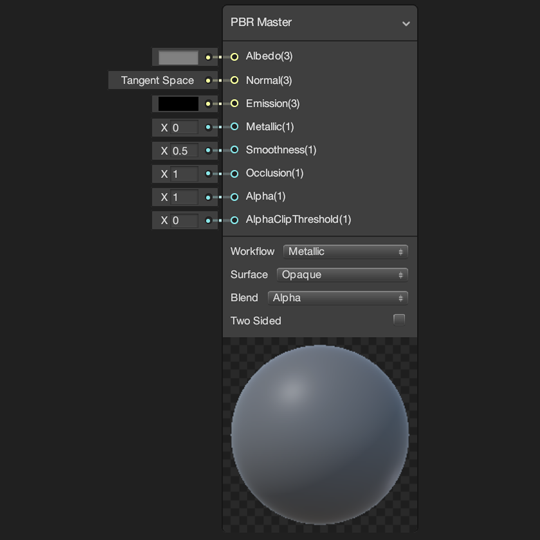
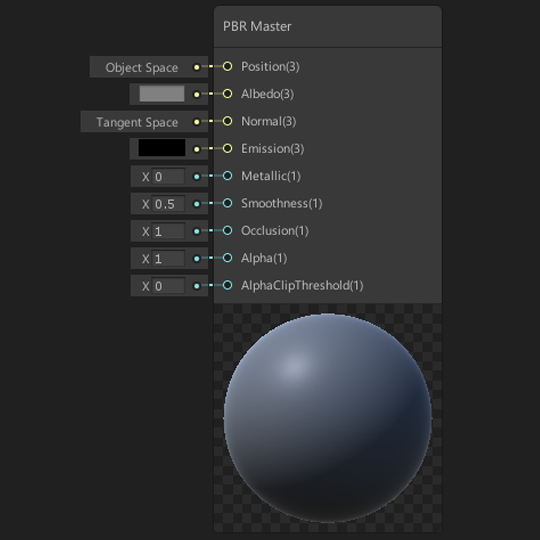
Update node list pages

Changed region(s): [[0.1481, 0.0, 0.8296, 0.9778]]

diff --git a/com.unity.shadergraph/Documentation~/Math-Nodes.md b/com.unity.shadergraph/Documentation~/Math-Nodes.md
@@ -1,21 +1,6 @@
-#Math Nodes
+# Math Nodes
 
-##Basic
-
-| [Add](Add-Node.md) | [Divide](Divide-Node.md) |
-| :------- | :------ |
-| ![Image](images/AddNodeThumb.png) | ![Image](images/DivideNodeThumb.png) |
-| Returns the sum of the two input values. | Returns the result of input A divided by input B. |
-| [**Multiply**](Multiply-Node.md) | [**Power**](Power-Node.md) |
-| ![Image](images/MultiplyNodeThumb.png) | ![Image](images/PowerNodeThumb.png) |
-| Returns the result of input A multiplied by input B. | Returns the result of input A to the power of input B. |
-| [**Square Root**](Square-Root-Node.md) | [**Subtract**](Subtract-Node.md) |
-| ![Image](images/SquareRootNodeThumb.png) | ![Image](images/SubtractNodeThumb.png) |
-| Returns the square root of input In. | Returns the result of input A minus input B. |
-
-
-
-##Advanced
+## Advanced
 
 | [Absolute](Absolute-Node.md) | [Exponential](Absolute-Node.md) |
 | :------- | :------ |
@@ -35,8 +20,22 @@
 | Returns the result of 1 divided by input In. | Returns the result of 1 divided by the square root of input In. |
 
 
+## Basic
 
-##Derivative
+| [Add](Add-Node.md) | [Divide](Divide-Node.md) |
+| :------- | :------ |
+| ![Image](images/AddNodeThumb.png) | ![Image](images/DivideNodeThumb.png) |
+| Returns the sum of the two input values. | Returns the result of input A divided by input B. |
+| [**Multiply**](Multiply-Node.md) | [**Power**](Power-Node.md) |
+| ![Image](images/MultiplyNodeThumb.png) | ![Image](images/PowerNodeThumb.png) |
+| Returns the result of input A multiplied by input B. | Returns the result of input A to the power of input B. |
+| [**Square Root**](Square-Root-Node.md) | [**Subtract**](Subtract-Node.md) |
+| ![Image](images/SquareRootNodeThumb.png) | ![Image](images/SubtractNodeThumb.png) |
+| Returns the square root of input In. | Returns the result of input A minus input B. |
+
+
+
+## Derivative
 
 | [DDX](DDX-Node.md) | [DDXY](DDXY-Node.md) |
 | :------- | :------ |
@@ -48,7 +47,7 @@
 
 
 
-##Interpolation
+## Interpolation
 
 | [Inverse Lerp](Inverse-Lerp-Node.md) | [Lerp](Lerp-Node.md) |
 | :------- | :------ |
@@ -60,7 +59,7 @@
 
 
 
-##Matrix
+## Matrix
 
 | [Matrix Construction](Matrix-Construction-Node.md)           | [Matrix Determinant](Matrix-Determinant-Node.md)             |
 | :----------------------------------------------------------- | :----------------------------------------------------------- |
@@ -72,7 +71,7 @@
 
 
 
-##Range
+## Range
 
 | [Clamp](Clamp-Node.md) | [Fraction](Fraction-Node.md) |
 | :------- | :------ |
@@ -90,7 +89,7 @@
 
 
 
-##Round
+## Round
 
 | [Ceiling](Ceiling-Node.md) | [Floor](Floor-Node.md) |
 | :------- | :------ |
@@ -103,7 +102,7 @@
 | ![Image](images/StepNodeThumb.png) | ![Image](images/TruncateNodeThumb.png) |
 | Returns 1 if the value of input In is greater than or equal to the value of input Edge, otherwise returns 0. | Returns the integer, or whole number, component of the value of input In. |
 
-##Trigonometry 
+## Trigonometry 
 
 | [Arccosine](Arccosine-Node) | [Arcsine](Arcsine-Node.md) |
 | :------- | :------ |
@@ -127,7 +126,7 @@
 
 
 
-##Vector
+## Vector
 
 | [Cross Product](Cross-Product-Node.md) | [Distance](Distance-Node.md) |
 | :------- | :------ |
@@ -136,9 +135,30 @@
 | [**Dot Product**](Dot-Product-Node.md) | [**Fresnel Effect**](Fresnel-Effect-Node.md) |
 | ![Image](images/DotProductNodeThumb.png) | ![Image](images/FresnelEffectNodeThumb.png) |
 | Returns the dot product, or scalar product, of the values of the inputs A and B. | Fresnel Effect is the effect of differing reflectance on a surface depending on viewing angle, where as you approach the grazing angle more light is reflected. |
+| [**Projection**](Projection-Node.md) | [**Reflection**](Reflection-Node.md) |
+| ![Image](images/ProjectionNodeThumb.png) | ![Image](images/ReflectionNodeThumb.png) |
+| Returns the result of projecting the value of input A onto a straight line parallel to the value of input B. | Returns a reflection vector using input In and a surface normal Normal. |
+| [**Rejection**](Rejection-Node.md) | [**Rotate About Axis**](Rotate-About-Axis-Node.md) |
+| ![Image](images/RejectionNodeThumb.png) | ![Image](images/RotateAboutAxisNodeThumb.png) |
+| Returns the result of the projection of the value of  input A onto the plane orthogonal, or perpendicular, to the value of  input B. | Rotates the input vector In around the axis Axis by the value of Rotation. |
 | [**Projection**](Projection-Node.md) | [**Rejection**](Rejection-Node.md) |
 | ![Image](images/ProjectionNodeThumb.png) | ![Image](images/RejectionNodeThumb.png) |
 | Returns the result of projecting the value of input A onto a straight line parallel to the value of input B. | Returns the result of the projection of the value of  input A onto the plane orthogonal, or perpendicular, to the value of  input B. |
-| [**Transform**](Transform-Node.md) |  |
-| ![Image](images/TransformNodeThumb.png) |  |
-| Returns the result of transforming the value of input In from one coordinate space to another. |  |
+| [**Sphere Mask**](Sphere-Mask-Node.md) | [**Transform**](Transform-Node.md) |
+| ![Image](images/SphereMaskNodeThumb.png)| ![Image](images/TransformNodeThumb.png) |
+| Creates a sphere mask originating from input Center. | Returns the result of transforming the value of input In from one coordinate space to another. |
+
+## Wave
+
+| [Noise Sine Wave](Noise-Sine-Wave-Node.md)           | [Sawtooth Wave](Sawtooth-Wave-Node.md)             |
+| :----------------------------------------------------------- | :----------------------------------------------------------- |
+| ![Image](images/NoiseSineWaveNodeThumb.png)             | ![Image](images/SawtoothWaveNodeThumb.png)              |
+| Returns the sine of the value of input In. For variance, random noise is added to the amplitude of the sine wave. | Returns a sawtooth wave from the value of input In. |
+| [**Matrix Split**](Matrix-Split-Node.md)                     | [**Matrix Transpose**](Matrix-Transpose.md)                  |
+| ![Image](images/MatrixSplitNodeThumb.png)                    | ![Image](images/MatrixTransposeNodeThumb.png)                |
+| Splits a square matrix defined by input In into vectors.     | Returns the transposed value of the matrix defined by input In. |
+
+Noise Sine Wave
+Sawtooth Wave
+Square Wavve
+Triangle Wave

diff --git a/com.unity.shadergraph/Documentation~/Input-Nodes.md b/com.unity.shadergraph/Documentation~/Input-Nodes.md
@@ -35,6 +35,13 @@
 |![Image](images/VertexColorNodeThumb.png)|![Image](images/ViewDirectionNodeThumb.png)|
 |Provides access to the mesh vertex or fragment's Vertex Color value.|Provides access to the mesh vertex or fragment's View Direction vector.|
 
+## Gradient
+
+|[Gradient](Gradient-Node.md)|[Sample Gradient](Sample-Gradient-Node.md)|
+|:--------:|:------:|
+|![Image](Images\GradientNodeThumb.png)|![](images/SampleGradientNodeThumb.png)|
+| Defines a constant Gradient in the shader. | Samples a Gradient given the input of Time. |
+
 ## Matrix
 
 |[Matrix 2x2](Matrix-2x2-Node.md)|[Matrix 3x3](Matrix-3x3-Node.md)|
@@ -67,6 +74,9 @@
 |[**Object**](Object-Node.md)|[**Reflection Probe**](Reflection-Probe-Node.md)|
 |![Image](images/ObjectNodeThumb.png)|![Image](images/ReflectionProbeNodeThumb.png)|
 |Provides access to various parameters of the Object.|Provides access to the nearest Reflection Probe to the object.|
+|[**Scene Color**](Scene-Color-Node.md)|[**Scene Depth**](Scene-Depth-Node.md)|
+|![Image](images/SceneColorNodeThumb.png)|![Image](images/SceneDepthNodeThumb.png)|
+|Provides access to the current Camera's color buffer.|Provides access to the current Camera's depth buffer.|
 |[**Screen**](Sreen-Node.md)||
 |![Image](images/ScreenNodeThumb.png)||
 |Provides access to parameters of the screen.||
@@ -77,9 +87,18 @@
 |:--------:|:------:|
 |[![Image](Images\CubemapAssetNodeThumb.png)](Combine-Node)|![](images/SampleCubemapNodeThumb.png)|
 | Defines a constant Cubemap Asset for use in the shader. | Samples a Cubemap and returns a Vector 4 color value for use in the shader. |
-|[**Sample Texture 2D**](Sample-Texture-2D.md)|[**Sampler State**](Sampler-State-Node.md)|
-|![Image](images/SampleTexture2DNodeThumb.png)|![Image](images/SamplerStateNodeThumb.png)|
-|Samples a Texture 2D and returns a Vector 4 color value for use in the shader.|Defines a Sampler State for sampling textures.|
-|[**Texture 2D Asset**](Texture-2D-Asset-Node.md)||
-|![Image](images/Texture2DAssetNodeThumb.png)||
-|Defines a constant Texture 2D Asset for use in the shader.||
+|[**Sample Texture 2D**](Sample-Texture-2D-Node.md)|[**Sample Texture 2D Array**](Sample-Texture-2D-Array-Node.md)|
+|![Image](images/SampleTexture2DNodeThumb.png)|![Image](images/SampleTexture2DArrayNodeThumb.png)|
+|Samples a Texture 2D and returns a color value for use in the shader.|Samples a Texture 2D Array at an Index and returns a color value for use in the shader.|
+|[**Sample Texture 2D LOD**](Sample-Texture-2D-LOD-Node.md)|[**Sample Texture 3D**](Sample-Texture-3D-Node.md)|
+|![Image](images/SampleTexture2DLODNodeThumb.png)|![Image](images/SampleTexture3DNodeThumb.png)|
+|Samples a Texture 2D at a specific LOD and returns a color value for use in the shader.|Samples a Texture 3D and returns a color value for use in the shader.|
+|[**Sampler State**](Sampler-State-Node.md)|[**Texel Size**](Texel-Size-Node.md)|
+|![Image](images/SamplerStateNodeThumb.png)|![Image](images/TexelSizeNodeThumb.png)|
+|Defines a Sampler State for sampling textures.|Returns the Width and Height of the texel size of Texture 2D input.|
+|[**Texture 2D Array Asset**](Texture-2D-Array-Asset-Node.md)|[**Texture 2D Asset**](Texture-2D-Asset-Node.md)|
+|![Image](images/Texture2DArrayAssetNodeThumb.png)|![Image](images/Texture2DAssetNodeThumb.png)|
+|Defines a constant Texture 2D Array Asset for use in the shader.|Defines a constant Texture 2D Asset for use in the shader.|
+|[**Texture 3D Asset**](Texture-3D-Asset-Node.md)|
+|![Image](images/Texture3DAssetNodeThumb.png)|
+|Defines a constant Texture 3D Asset for use in the shader.|

diff --git a/com.unity.shadergraph/Documentation~/PBR-Master-Node.md b/com.unity.shadergraph/Documentation~/PBR-Master-Node.md
@@ -6,17 +6,18 @@ Values supplied to the input **Normal** are expected to be in tangent space. Use
 
 ## Ports
 
-| Name        | Direction           | Type  | Binding | Description |
-|:------------ |:-------------|:-----|:---|:---|
-| Albedo      | Input | Vector 3 | None | Defines material's albedo value. Expected range 0 - 1. |
-| Normal      | Input | Vector 3 | Tangent Space Normal | Defines material's normal value. Expects normals in tangent space.  |
-| Emission      | Input | Vector 3 | None | Defines material's emission color value. Expects positive values.  |
-| Metallic      | Input | Vector 1 | None | Defines material's metallic value where 0 is non-metallic and 1 is metallic. Only available in Metallic **Workflow** mode.  |
-| Specular      | Input | Vector 3 | None | Defines material's specular color value. Expected range 0 - 1. Only available in Specular **Workflow** mode.  |
-| Smoothness      | Input | Vector 1 | None | Defines material's smoothness value. Expected range 0 - 1.  |
-| Occlusion      | Input | Vector 1 | None | Defines material's ambient occlusion value. Expected range 0 - 1.  |
-| Alpha      | Input | Vector 1 | None | Defines material's alpha value. Used for transparency and/or alpha clip. Expected range 0 - 1.  |
-| Alpha Clip Threshold      | Input | Vector 1 | None | Fragments with an alpha below this value will be discarded. Requires a node connection. Expected range 0 - 1. |
+| Name        | Direction           | Type  | Stage | Binding | Description |
+|:------------ |:-------------|:----|:-----|:---|:---|
+| Position      | Input | Vector 3 | Vertex | None | Defines the absolute object space vertex position per vertex |
+| Albedo      | Input | Vector 3 | Fragment | None | Defines material's albedo value. Expected range 0 - 1. |
+| Normal      | Input | Vector 3 | Fragment | Tangent Space Normal | Defines material's normal value. Expects normals in tangent space.  |
+| Emission      | Input | Vector 3 | Fragment | None | Defines material's emission color value. Expects positive values.  |
+| Metallic      | Input | Vector 1 | Fragment | None | Defines material's metallic value where 0 is non-metallic and 1 is metallic. Only available in Metallic **Workflow** mode.  |
+| Specular      | Input | Vector 3 | Fragment | None | Defines material's specular color value. Expected range 0 - 1. Only available in Specular **Workflow** mode.  |
+| Smoothness      | Input | Vector 1 | Fragment | None | Defines material's smoothness value. Expected range 0 - 1.  |
+| Occlusion      | Input | Vector 1 | Fragment | None | Defines material's ambient occlusion value. Expected range 0 - 1.  |
+| Alpha      | Input | Vector 1 | Fragment | None | Defines material's alpha value. Used for transparency and/or alpha clip. Expected range 0 - 1.  |
+| Alpha Clip Threshold      | Input | Vector 1 | Fragment | None | Fragments with an alpha below this value will be discarded. Requires a node connection. Expected range 0 - 1. |
 
 ## Material Options
 

diff --git a/com.unity.shadergraph/Documentation~/Normal-From-Height-Node.md b/com.unity.shadergraph/Documentation~/Normal-From-Height-Node.md
@@ -1,6 +1,6 @@
 ## Description
 
-Creates a normal map from a height value defined by input **Vector 1**.
+Creates a normal map from a height value defined by input **Input**.
 
 ## Ports
 

diff --git a/com.unity.shadergraph/Documentation~/Master-Nodes.md b/com.unity.shadergraph/Documentation~/Master-Nodes.md
@@ -1,4 +1,4 @@
-#Master Nodes
+# Master Nodes
 
 | [PBR Master](PBR-Master-Node.md) | [Unlit Master](Unlit-Master-Node.md) |
 |:-------------|:------|
